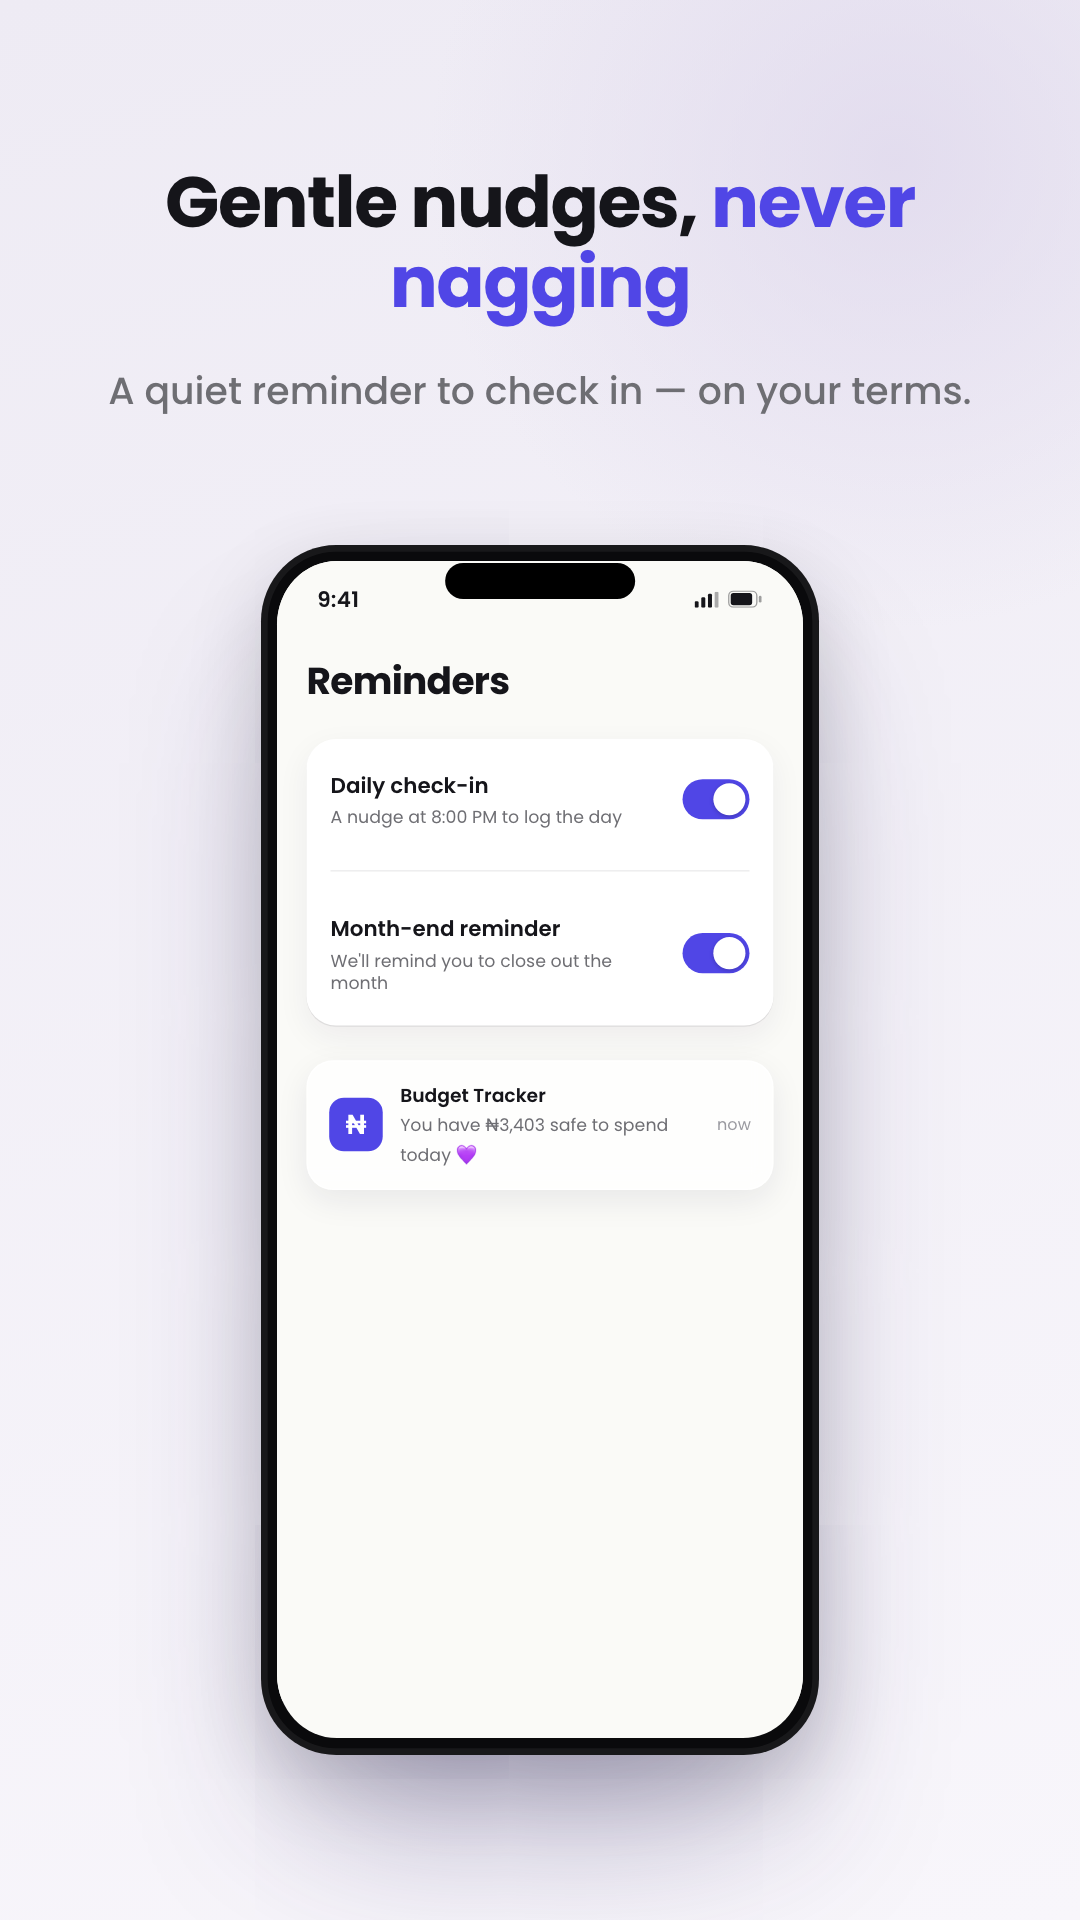
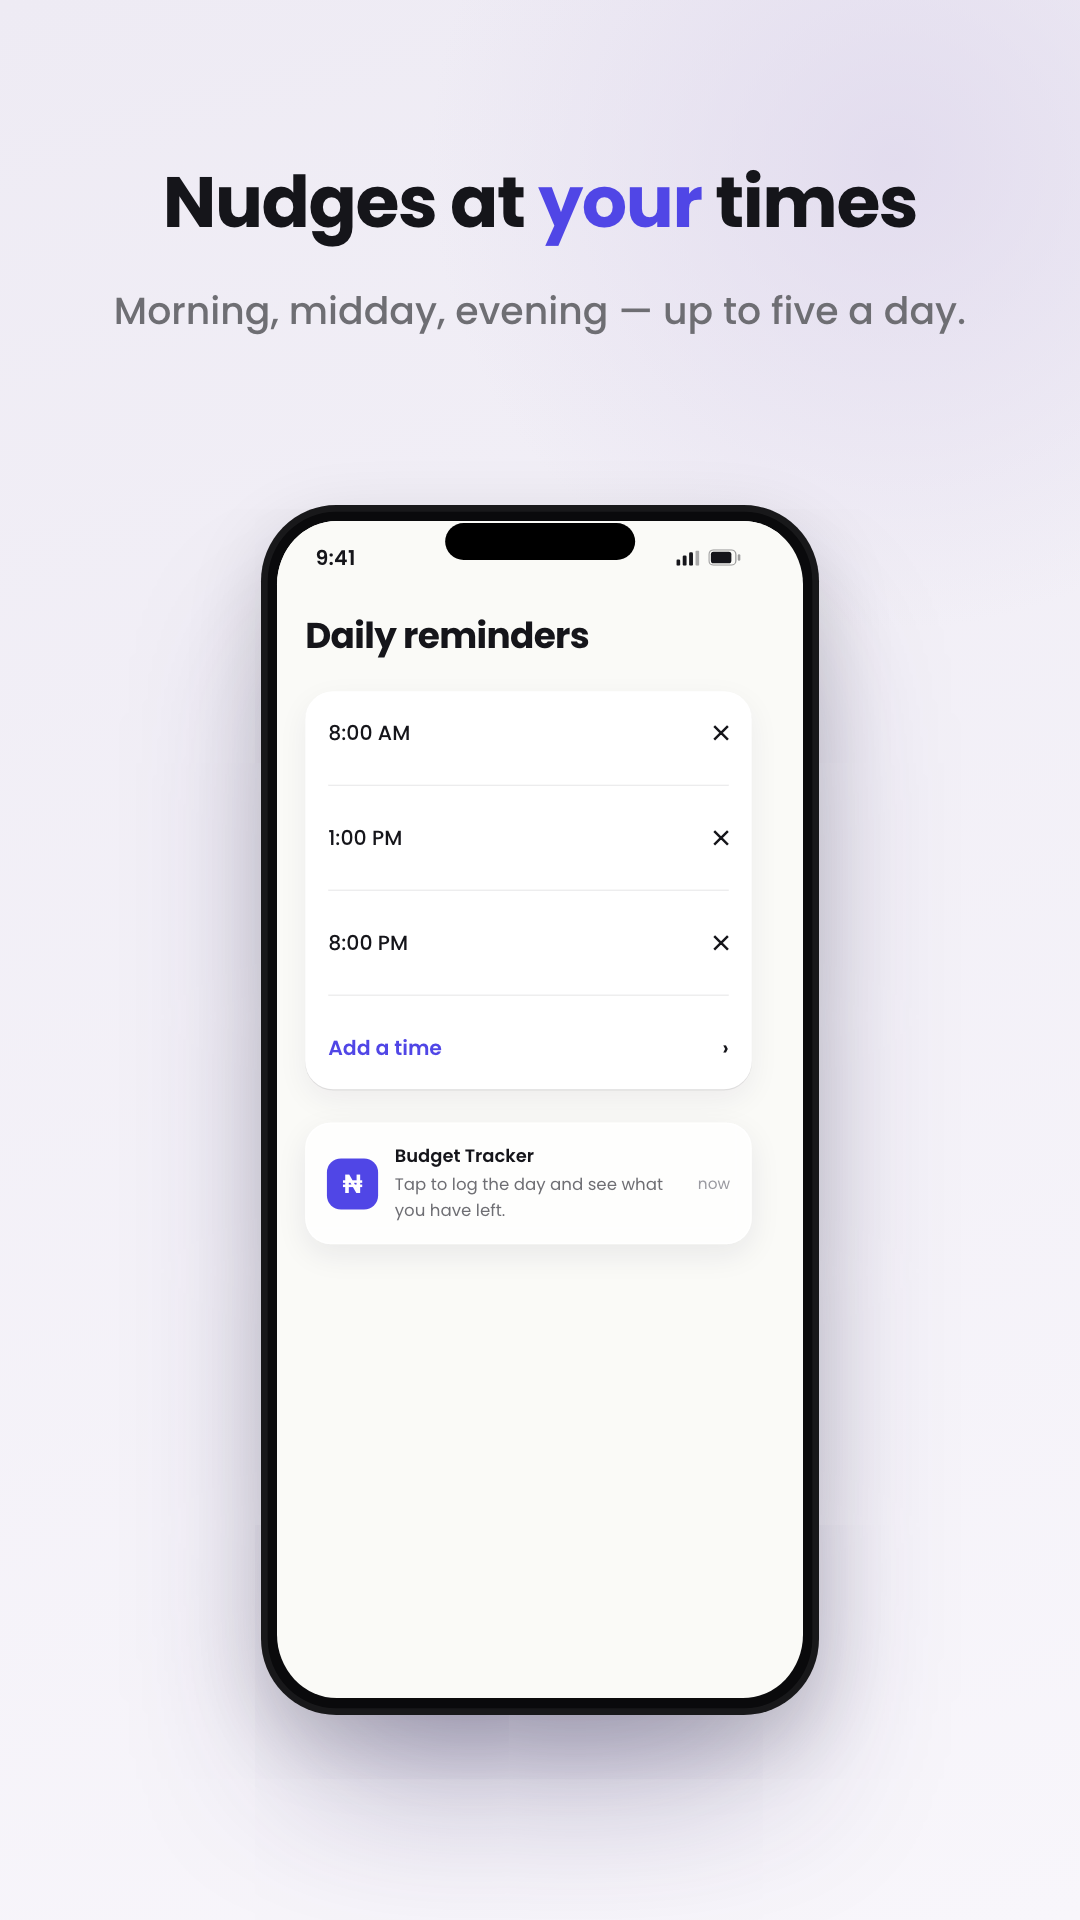
docs: App Store submission draft + regenerate screenshots
- Screenshots showed the old Essentials/Growth/Stability/Rewards names; app now
  ships Needs/Wants/Savings/Fun. Regenerated all six at both store sizes.
- Add a sixth screenshot for the PIN/Face ID lock screen.
- Rename generator to .cjs (root package.json is now type: module).

diff --git a/docs/APP_STORE_SUBMISSION.md b/docs/APP_STORE_SUBMISSION.md
@@ -1,0 +1,170 @@
+# Budget Tracker — App Store submission (v1.0.0)
+
+Everything to paste into App Store Connect, in the order the forms appear.
+Build to submit: **1.0.0 (8)**.
+
+---
+
+## 0. Blockers to clear first
+
+- [ ] **Agreements, Tax, and Banking** → the latest **Free Apps** agreement is
+      accepted (Account Holder only). If it isn't green, Submit stays disabled.
+- [ ] Build **1.0.0 (8)** shows in TestFlight as processed.
+- [ ] Privacy policy + support pages are live:
+      - https://tvbixd.github.io/Budgetplanner1/privacy-policy.html
+      - https://tvbixd.github.io/Budgetplanner1/support.html
+
+---
+
+## 1. App Information
+
+| Field | Value |
+|---|---|
+| Name | `Budget Tracker` |
+| Subtitle (30) | `Know what's safe to spend` |
+| Primary category | **Finance** |
+| Secondary category | *(leave empty)* |
+| Content rights | **No third-party content** |
+| Age rating | **4+** — answer *None* to every content question |
+| Privacy Policy URL | `https://tvbixd.github.io/Budgetplanner1/privacy-policy.html` |
+| License agreement | Apple's standard EULA |
+
+---
+
+## 2. Pricing and Availability
+
+- Price: **Free**
+- Availability: **All countries and regions**
+- Pre-orders: off
+
+---
+
+## 3. App Privacy  → **"Data Not Collected"**
+
+Answer **No** to "Do you or your third-party partners collect data from this app?"
+
+This is accurate: everything is stored on-device (AsyncStorage), reminders are
+local notifications, the app-lock PIN is a salted hash in the Keychain, there is
+no account, no analytics, no ads, and no network calls that carry user data.
+
+---
+
+## 4. Version 1.0.0 — "Prepare for Submission"
+
+### Promotional text (170)
+```
+A calm budget you actually live in. One number tells you what's safe to spend today — log a purchase in five seconds, lock it behind Face ID, and keep your figures private.
+```
+
+### Description
+```
+Budget Tracker is a calm, no-nonsense budget you actually live in.
+
+Most budget apps drown you in charts, streaks and notifications. Budget Tracker
+answers one question: can I spend right now?
+
+SAFE TO SPEND TODAY
+One clear number, front and centre, every day. No hunting through screens.
+
+LOG IN FIVE SECONDS
+Tap +, type the amount, pick a category, done. No forms, no friction.
+
+CATEGORIES THAT ARE YOURS
+Start with Needs, Wants, Savings and Fun — then rename them, recolour them, add
+your own, and set how much of your money each one gets.
+
+RECURRING BILLS, HANDLED
+Add rent, subscriptions or a gym once and they log themselves every month.
+
+REMINDERS ON YOUR SCHEDULE
+Pick your own times — morning, midday, evening, up to five a day. Never a streak,
+never a guilt trip.
+
+PRIVATE BY DESIGN
+Lock the app with a PIN or Face ID, and hide every figure on screen with one tap
+when someone's looking over your shoulder.
+
+LIGHT AND DARK
+Follows your phone's appearance automatically.
+
+YOUR DATA STAYS YOURS
+No account. No sign-in. No bank connection. Nothing is uploaded — your budget
+lives on your device and nowhere else.
+```
+
+### Keywords (100 max — this is 99)
+```
+budget,tracker,spending,expense,money,savings,finance,planner,cashflow,bills,budgeting,spend
+```
+
+### URLs
+- Support URL: `https://tvbixd.github.io/Budgetplanner1/support.html`
+- Marketing URL: *(optional — same support page, or leave blank)*
+
+### Screenshots — iPhone 6.9"
+Upload in this order from `docs/store-assets/ios/` (all 1290×2796):
+1. `01-home.png` — Know what's safe to spend today
+2. `02-log.png` — Log a spend in five seconds
+3. `03-plan.png` — A plan that fits your month
+4. `04-today.png` — Every spend, at a glance
+5. `05-reminders.png` — Nudges at your times
+6. `06-lock.png` — Locked, and private
+
+iPad screenshots: **not required** (the app is iPhone-only).
+
+### General
+- App icon: comes from the build automatically
+- Copyright: `2026 Break and Build`
+- Version: `1.0.0`
+- Build: **8**
+
+---
+
+## 5. App Review Information
+
+- **Sign-in required:** **No**
+- **Contact:** *your first name, last name, phone, email* ← only thing I can't fill in
+- **Notes to reviewer:**
+```
+No account or sign-in is required — open the app and start budgeting.
+
+All data is stored locally on the device. There is no backend, no analytics and
+no network calls carrying user data.
+
+Optional features you may want to exercise:
+• App lock (Settings → Privacy & security): sets a 4-digit PIN with optional
+  Face ID. It is OFF by default, so it will not block review.
+• Reminders are local notifications only; times are user-chosen in Settings.
+• "Hide amounts" (eye icon on Home) masks figures on screen.
+
+Currency is chosen on first launch and can be changed in Settings.
+```
+
+---
+
+## 6. Declarations shown at submit
+
+- **Export compliance:** already answered by the build
+  (`ITSAppUsesNonExemptEncryption: false`). The app only uses standard platform
+  cryptography for local authentication (hashing the app-lock PIN), which is
+  exempt — so **No** remains the correct answer.
+- **Advertising Identifier (IDFA):** **No** — the app doesn't use it.
+- **Version release:** **Manually release this version** (recommended, so you
+  control the go-live moment).
+
+---
+
+## 7. Submit
+
+**Add for Review → Submit.** First review is typically 24–48h.
+
+---
+
+## "What's New" (for the next update, not 1.0.0)
+1.0.0 is the first public release, so this field won't appear. Keep for v1.1:
+```
+• Dark mode
+• Set your own reminder times — up to five a day
+• Lock the app with a PIN or Face ID
+• Hide your figures with one tap
+```
